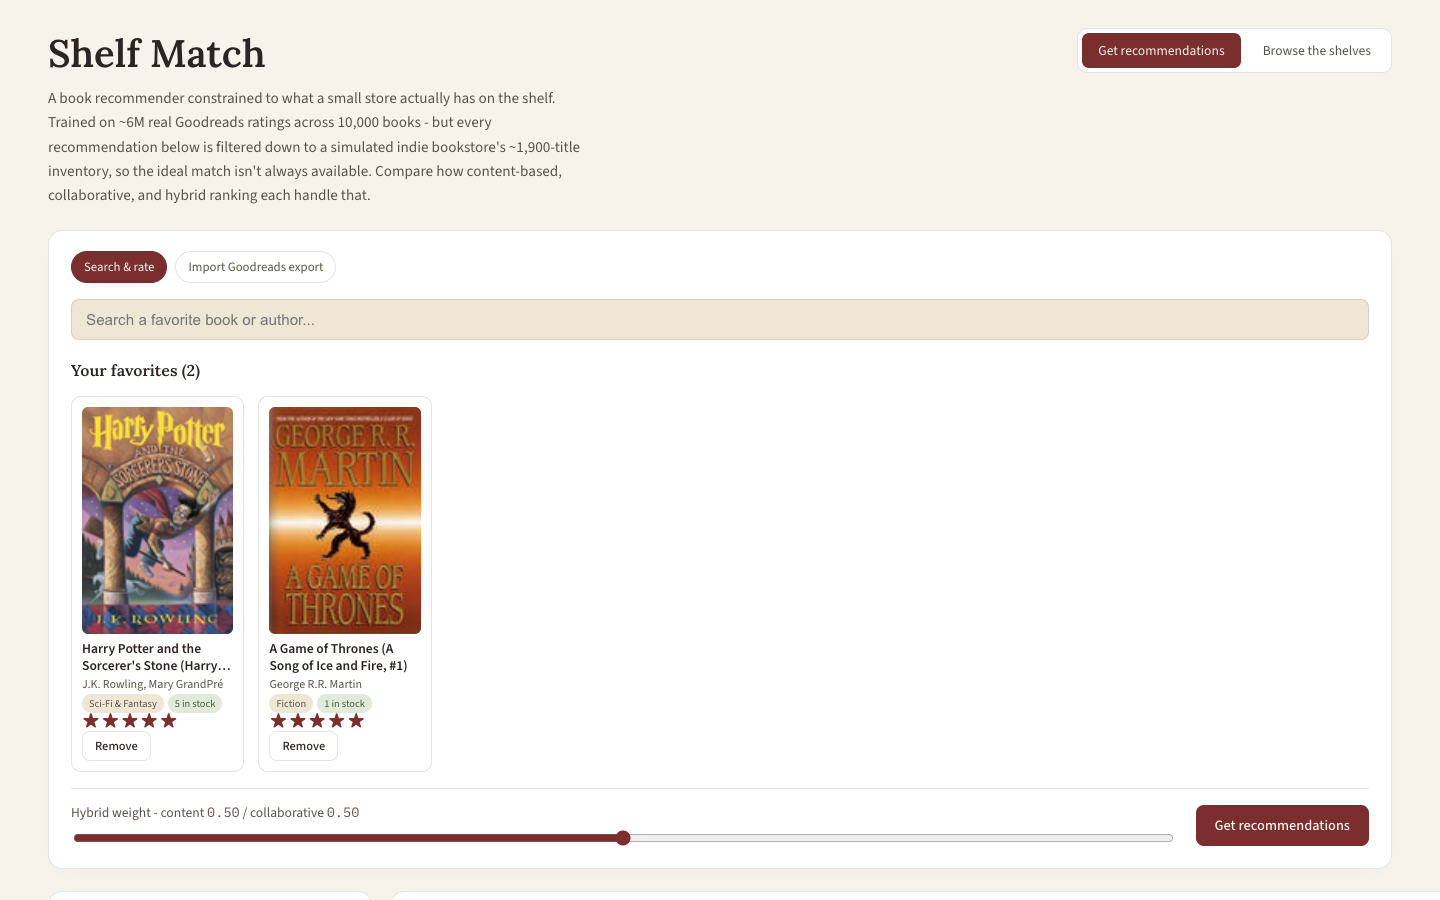
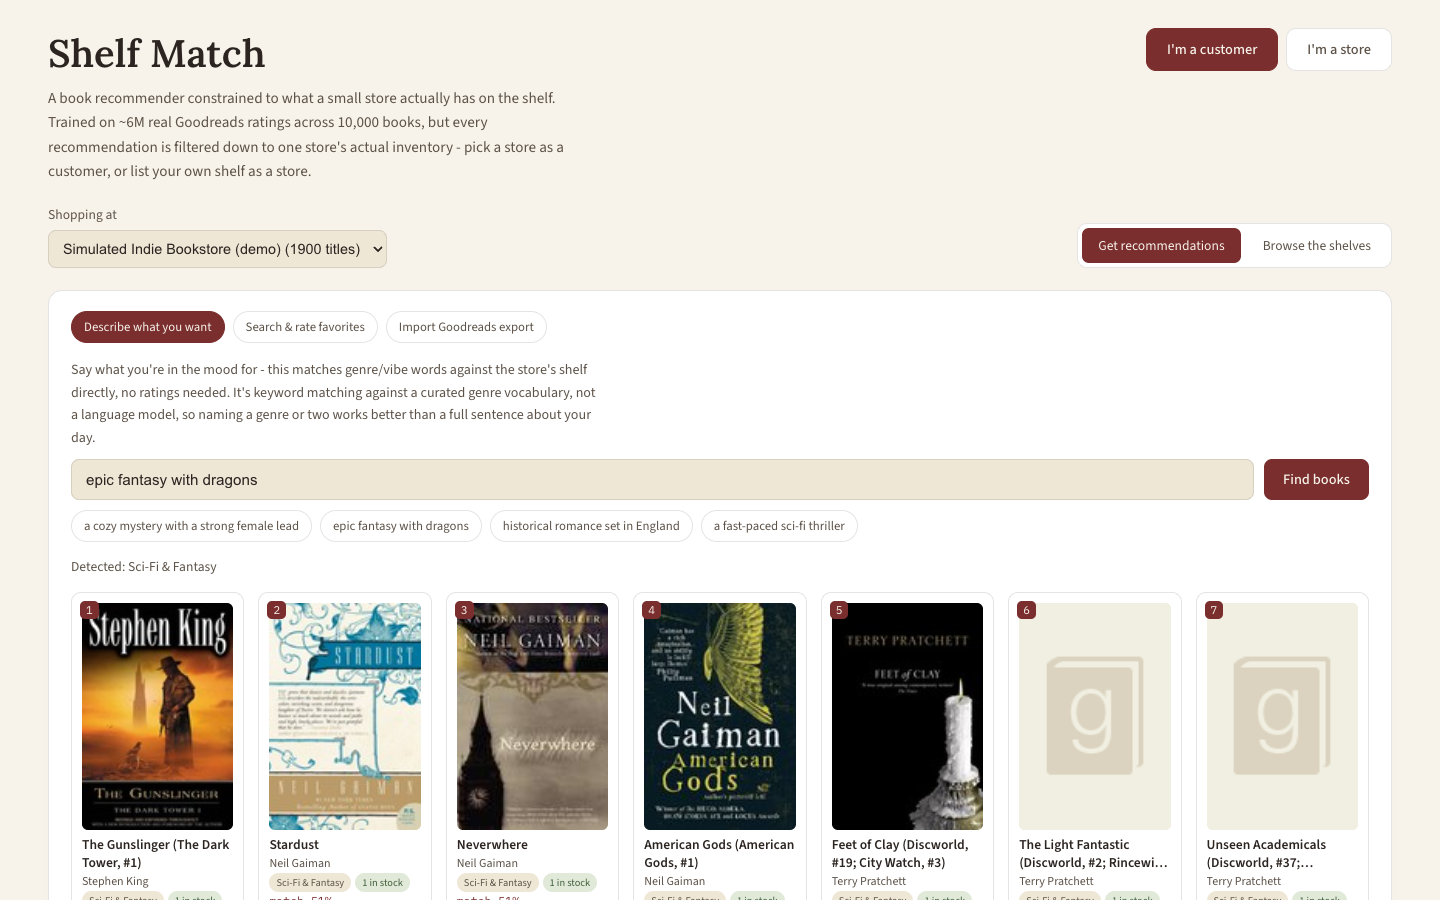
Update Shelf Match description and screenshot for customer/store roles

diff --git a/src/data.js b/src/data.js
@@ -56,7 +56,7 @@ export const PROJECTS = [
     name: "Shelf Match",
     tagline: "A book recommender constrained to what a small store actually has in stock.",
     description:
-      "Trained on real Goodreads data (goodbooks-10k: 10,000 books, ~6M ratings) but ranked only against a simulated indie bookstore's curated ~1,900-title inventory - the real problem is best available, not best hypothetical. Compares a content-based model (TF-IDF over genre tags), a from-scratch collaborative-filtering model (latent-factor matrix factorization trained with vectorized gradient descent, users folded in via ridge regression against trained item factors), and a tunable hybrid, side by side. Accepts a real Goodreads library export or a quick search-and-rate profile. Two real bugs found via targeted sanity checks - a count-independent bias-shrinkage flaw and a 15x gradient-accumulation slowdown from np.add.at - are documented in the README.",
+      "Trained on real Goodreads data (goodbooks-10k: 10,000 books, ~6M ratings) but ranked only against one store's actual inventory - the real problem is best available, not best hypothetical. Two sides to the app: as a customer, describe what you're in the mood for in plain language (no LLM - genre-keyword matching in the same vector space the content model uses), search and rate favorites, or import a real Goodreads export; as a store, upload the books you carry and get a code customers can shop against instead of the built-in ~1,900-title simulated inventory. Compares a content-based model (TF-IDF over genre tags), a from-scratch collaborative-filtering model (latent-factor matrix factorization trained with vectorized gradient descent, users folded in via ridge regression against trained item factors), and a tunable hybrid, side by side. Several real bugs found via targeted sanity checks - a count-independent bias-shrinkage flaw, a 15x gradient-accumulation slowdown from np.add.at, and a mismatched hyphen-normalization bug in the genre parser - are documented in the README.",
     image: "/screenshots/shelfmatch-preview.png",
     tech: ["Python", "scikit-learn", "NumPy/SciPy", "FastAPI", "React", "Recommender Systems"],
     githubUrl: "https://github.com/LNakai-OSU/shelf-match",
